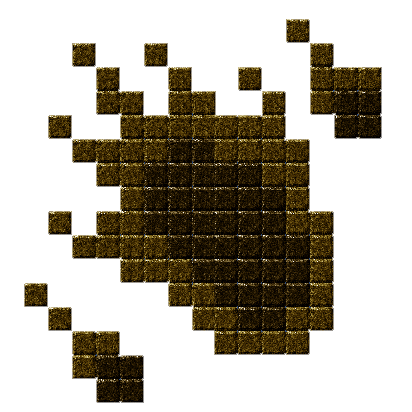
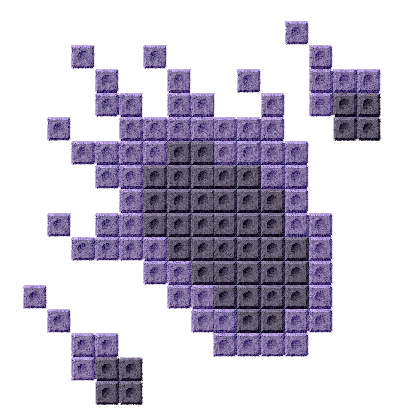
[KHJ_UPADTE] Brick Visual Design Update

diff --git a/Assets/Scripts/GameScene/MeteorClass/Meteor.cs b/Assets/Scripts/GameScene/MeteorClass/Meteor.cs
@@ -29,9 +29,9 @@ public class Meteor : MonoBehaviour
     {
 		ChangeMeteors = new Sprite[]
 		{
-			Resources.Load<Sprite>("Image/MeteorImage/EasyMeteorBrick"),
-			Resources.Load<Sprite>("Image/MeteorImage/NormalMeteorBrick"),
-			Resources.Load<Sprite>("Image/MeteorImage/HardMeteorBrick")
+			Resources.Load<Sprite>("Image/MeteorImage/EasyMeteorPurple"),
+			Resources.Load<Sprite>("Image/MeteorImage/NormalMeteorPurple"),
+			Resources.Load<Sprite>("Image/MeteorImage/HardMeteorPurple")
 		};
 
 		spriteRenderer = GetComponent<SpriteRenderer>();
